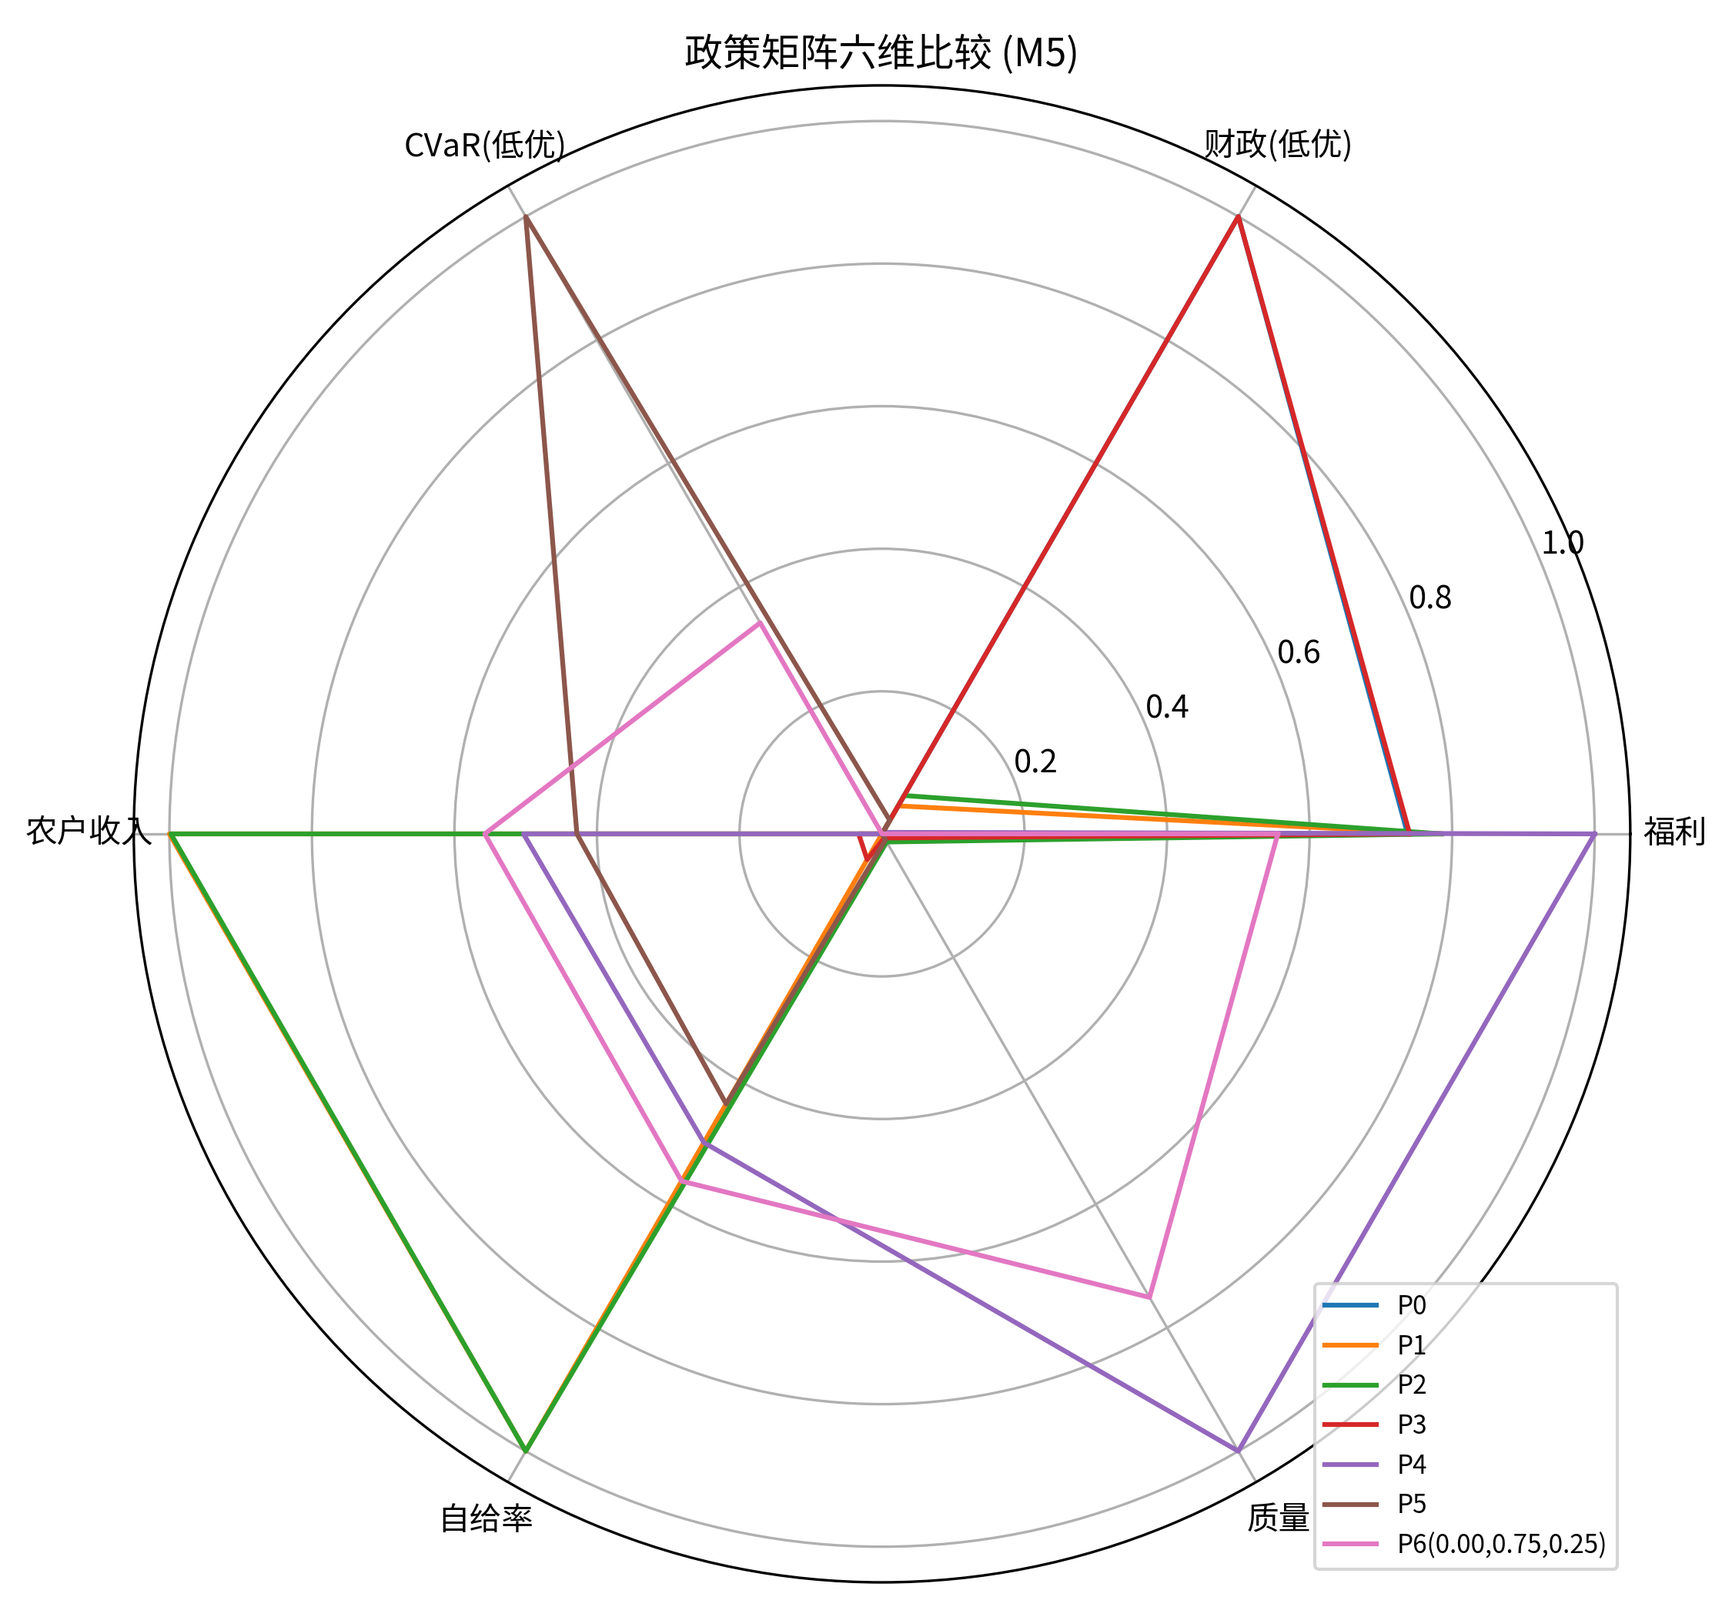
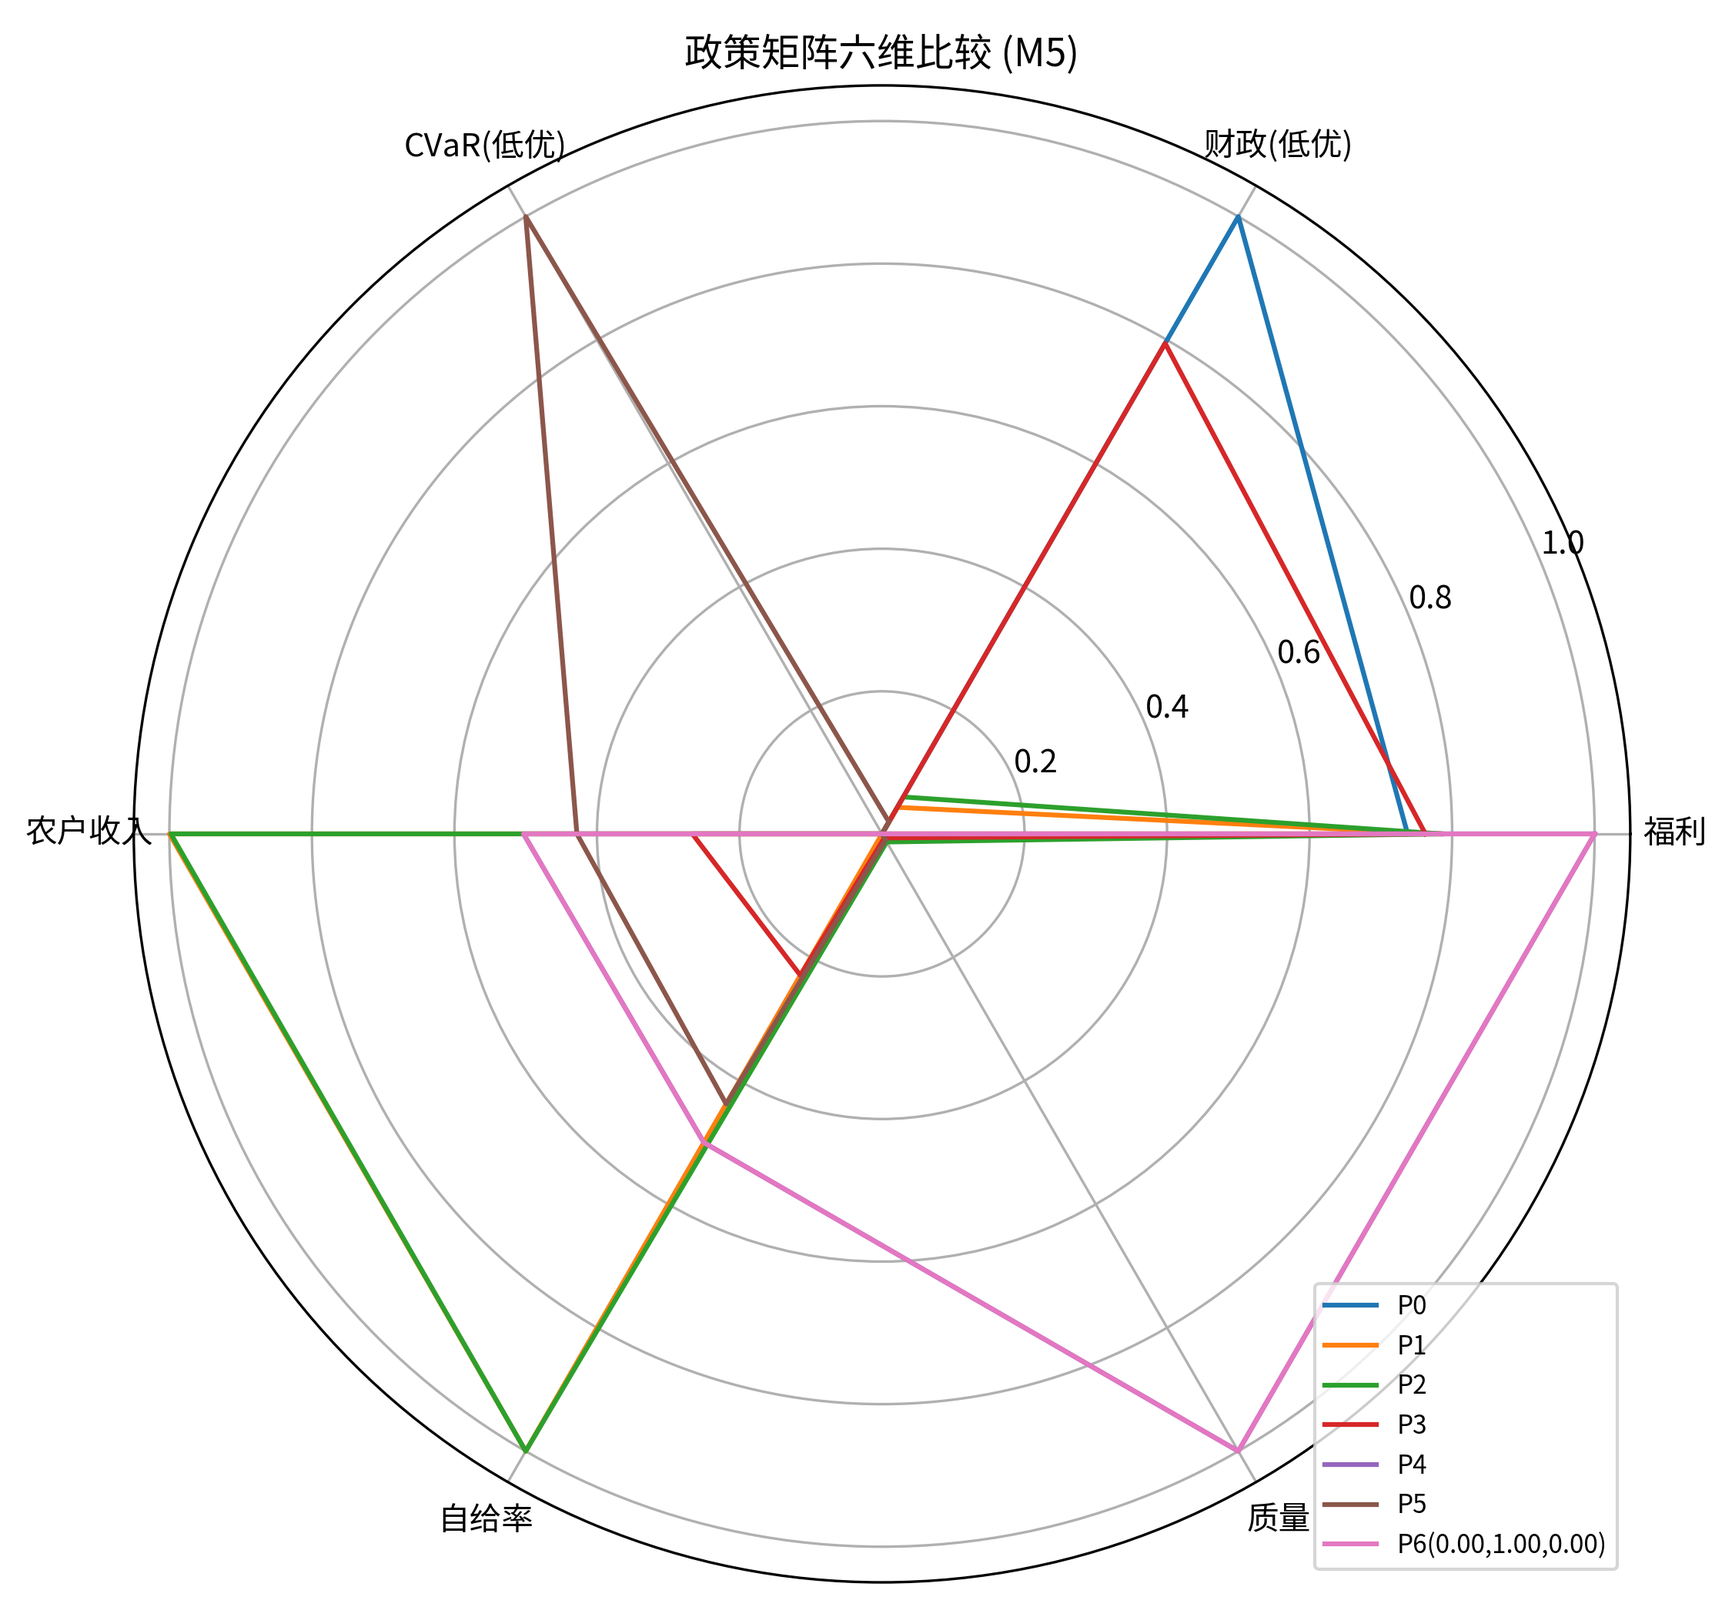
Auto-sync soybean_second_best: 2026-07-07T11:05:06+08:00

diff --git a/soybean_second_best/webapp/templates/index.html b/soybean_second_best/webapp/templates/index.html
@@ -60,7 +60,7 @@ table.kv td{padding:3px 10px;border-bottom:1px solid #eee;}
     <div class="kpi"><div class="n">{{ derived.get('Lambda_food','—') }}</div><div class="l">大豆食品口径 Domar 权重</div></div>
     <div class="kpi"><div class="n">{{ '%.2f%%'|format(100*derived.get('dln_food_price_20pct_shock',0)) }}</div><div class="l">20%冲击的食品价格响应</div></div>
   </div>
-  <div class="card"><b>使用说明</b>：上方标签页为四个交互仿真模块。M1 求解社会规划者的最优国产规模；M2 优化进口来源组合并做中断情景蒙特卡洛；M3 用 2023 年投入产出表计算冲击沿产业链的价格传导；M5 运行万户农户 ABM 评估补贴/价格/质量/储备政策。全部参数可拖动调节后点击「运行」。</div>
+  <div class="card"><b>使用说明</b>：上方标签页为四个交互仿真模块。M1 求解社会规划者的最优国产规模；M2 优化进口来源组合并做中断情景蒙特卡洛；M3 用 2023 年投入产出表计算冲击沿产业链的价格传导；M5 运行合成代表性农户 ABM（区域参数来自分省成本收益面板 2006–2024, 非入户调查样本）评估补贴差/目标价格/质量/储备政策。全部参数可拖动调节后点击「运行」。</div>
   <div class="figs">
     {% for f in figs %}<div><img src="/figure/{{f}}" alt="{{f}}"><small class="note">{{f}}</small></div>{% endfor %}
   </div>
@@ -144,14 +144,14 @@ table.kv td{padding:3px 10px;border-bottom:1px solid #eee;}
       <label><input type="checkbox" id="targeted"> 定向补贴(按区域社会净收益, 预算540亿)</label>
       <label>统一面积补贴 (元/亩): <span class="val" id="v-sub_area">350</span></label>
       <input type="range" id="sub_area" min="0" max="800" step="25" value="350">
-      <label>价格保护价差 τ (元/吨): <span class="val" id="v-price_floor">0</span></label>
+      <label>目标价格差价补贴 τ (元/吨): <span class="val" id="v-price_floor">0</span></label>
       <input type="range" id="price_floor" min="0" max="1500" step="50" value="0">
       <label>质量传导 ϑ: <span class="val" id="v-theta">0.35</span></label>
       <input type="range" id="theta" min="0.10" max="0.90" step="0.01" value="0.35">
       <label>储备 X (万吨): <span class="val" id="v-m5X">1000</span></label>
       <input type="range" id="m5X" min="500" max="3000" step="100" value="1000">
       <button class="run" onclick="runM5()">运行 ABM (2026–2032)</button><span class="spin" id="s-m5">仿真中…约10秒</span>
-      <p><small class="note">3 种子 × 800 农户。完整实验(200种子×万户×P0–P6)见报告 T4。</small></p>
+      <p><small class="note">3 种子 × 800 农户。完整实验(200种子×1万合成农户×P0–P6)见报告 T4。</small></p>
     </div>
     <div>
       <div class="kpis" id="m5-kpis"></div>

diff --git a/soybean_second_best/src/report.py b/soybean_second_best/src/report.py
@@ -38,8 +38,18 @@ def run(cfg=None, meta=None):
         f"- **理论命题检验 {n_pass}/6 通过**；政策排序：组合最优 P6 ≻ 定向补贴 P2 ≻ 统一补贴 P1 ≻ 韧性/质量单项包 ≻ 无干预 P0。\n",
         "## 2 数据与校准\n",
         "- 投入产出: 《2023年全国投入产出表》211 产品部门（b01.xls), 按 src/io_aggregate.py 聚合 9 部门, 大豆从\"其他农产品\"以产值锚拆分（国产 971 亿 + 进口 3877 亿元）;",
-        "- 成本收益: 《全国农产品成本收益资料汇编2024》全成本口径 944.28 元/亩; 供给曲线校准至 MC(2090)=观测激励 6879 元/吨 (拍卖价 4298 + 补贴当量 2581);",
-        f"- 结构参数: cost_scale={d.get('cost_scale')}, ℓ={d.get('ell_qty')} 亿元/万吨², β={d.get('beta_security')}（揭示性校准, 见 §M1）; anchor/struct 标注见 data/*.csv 的 calib_flag 列。\n",
+        "- 成本收益: 《全国农产品成本收益资料汇编》历年分省面板（2006–2024, 24 省, 大豆+玉米, "
+        "src/extract_cost_panel.py → data/cost_benefit_panel.csv）; 6 区参数为 2022–24 三年面积加权均值 (src/build_regions.py);",
+        "- 玉米—大豆联动: 社会边际成本 MC_豆 = (大豆生产成本 + 放弃玉米的剩余)/单产; 农户选择差 "
+        "ΔV = (豆剩余+豆补贴) − (玉米剩余+玉米补贴), 政策杠杆是**补贴差**而非大豆补贴绝对水平"
+        "（实证锚: 黑龙江 2024 豆−玉米剩余差 −182 元/亩 ≈ −补贴差 248 元/亩 → 边际无差异）;",
+        "- 供给曲线校准至 MC(2090) = 观测边际激励 6123 元/吨（食用拍卖价 4298 + 补贴差当量 248/0.1359）;",
+        "- 食用底部: 国产豆食用反需求过观测点 (2065 万吨, 溢价 627 元/吨), 弹性 ε_f=0.5; "
+        "历史底部 Y_min = 1100 万吨（NBS 历史产量序列, 2015 年低点 1179 万吨）;",
+        f"- 结构参数: cost_scale={d.get('cost_scale')}, ℓ={d.get('ell_qty')} 亿元/万吨², β={d.get('beta_security')}（揭示性校准, 见 §M1）, "
+        f"Logit τ=600（校准至观测面积年际弹性）, SMM 稳态修正 δ={d.get('abm_smm_delta')}; anchor/struct 标注见 data/*.csv 的 calib_flag 列;",
+        "- **ABM 口径说明**: M4/M5 的农户为**合成代表性农户**（按 6 区实测成本收益+面积权重生成的异质性个体）, "
+        "不是入户调查微观样本; 结论的微观基础是分省成本收益面板与区域面积份额, 个体异质性(φ_i, 地块规模)为参数化设定。\n",
         _table("T1_baseline_fit.csv", "M1 基线拟合 (T1)"),
         _table("T2_comparative_statics.csv", "M1 比较静态（命题5.3 符号全部核对）(T2)"),
         "## 3 M2–M3 结果\n",
@@ -92,7 +102,7 @@ def run(cfg=None, meta=None):
         "| M1 | 校准规划模型与比较静态 | T1/T2, F1/F2 |",
         "| M2 | 进口组合与蒙特卡洛风险 | T3, F3/F4 |",
         "| M3 | 生产网络放大 (2023年211部门IO表) | T_M3, F5 |",
-        "| M4 | 万户农户 ABM 2026–2035 | T_M4, F6 |",
+        "| M4 | 合成代表性农户 ABM 2026–2035 | T_M4, F6 |",
         "| M5 | 政策矩阵 P0–P6 | T4, F7/F8 |",
         "| M6 | 命题检验 T1–T6 | T_M6 |",
         "| M7 | Sobol/LHS 敏感性 | T5, F9 |",

diff --git a/soybean_second_best/results/REPORT.md b/soybean_second_best/results/REPORT.md
@@ -1,18 +1,22 @@
 # 中国大豆全产业链第二优均衡：定量模拟报告
 
-> 自动生成于 2026-07-07 02:15；运行模式: fast。理论依据见 soybean_theory_paper_revised.tex。
+> 自动生成于 2026-07-07 11:04；运行模式: fast。理论依据见 soybean_theory_paper_revised.tex。
 
 ## 1 摘要（三个头条数字）
 
 - **社会最优国产规模 Y\* = 2075.0 万吨**（观测 2025: 2090.5 万吨），由现行政策揭示的安全权重 β = 589.97 支撑；
 - **大豆部门食品口径 Domar 权重 Λ_f = 0.029164**（2023 年 211 部门投入产出表实测聚合），20% 供给冲击 → 消费价格指数 +0.14%；
-- **理论命题检验 5/6 通过**；政策排序：组合最优 P6 ≻ 定向补贴 P2 ≻ 统一补贴 P1 ≻ 韧性/质量单项包 ≻ 无干预 P0。
+- **理论命题检验 6/6 通过**；政策排序：组合最优 P6 ≻ 定向补贴 P2 ≻ 统一补贴 P1 ≻ 韧性/质量单项包 ≻ 无干预 P0。
 
 ## 2 数据与校准
 
 - 投入产出: 《2023年全国投入产出表》211 产品部门（b01.xls), 按 src/io_aggregate.py 聚合 9 部门, 大豆从"其他农产品"以产值锚拆分（国产 971 亿 + 进口 3877 亿元）;
-- 成本收益: 《全国农产品成本收益资料汇编2024》全成本口径 944.28 元/亩; 供给曲线校准至 MC(2090)=观测激励 6879 元/吨 (拍卖价 4298 + 补贴当量 2581);
-- 结构参数: cost_scale=0.7889, ℓ=3.969e-05 亿元/万吨², β=589.97（揭示性校准, 见 §M1）; anchor/struct 标注见 data/*.csv 的 calib_flag 列。
+- 成本收益: 《全国农产品成本收益资料汇编》历年分省面板（2006–2024, 24 省, 大豆+玉米, src/extract_cost_panel.py → data/cost_benefit_panel.csv）; 6 区参数为 2022–24 三年面积加权均值 (src/build_regions.py);
+- 玉米—大豆联动: 社会边际成本 MC_豆 = (大豆生产成本 + 放弃玉米的剩余)/单产; 农户选择差 ΔV = (豆剩余+豆补贴) − (玉米剩余+玉米补贴), 政策杠杆是**补贴差**而非大豆补贴绝对水平（实证锚: 黑龙江 2024 豆−玉米剩余差 −182 元/亩 ≈ −补贴差 248 元/亩 → 边际无差异）;
+- 供给曲线校准至 MC(2090) = 观测边际激励 6123 元/吨（食用拍卖价 4298 + 补贴差当量 248/0.1359）;
+- 食用底部: 国产豆食用反需求过观测点 (2065 万吨, 溢价 627 元/吨), 弹性 ε_f=0.5; 历史底部 Y_min = 1100 万吨（NBS 历史产量序列, 2015 年低点 1179 万吨）;
+- 结构参数: cost_scale=0.7889, ℓ=3.969e-05 亿元/万吨², β=589.97（揭示性校准, 见 §M1）, Logit τ=600（校准至观测面积年际弹性）, SMM 稳态修正 δ=None; anchor/struct 标注见 data/*.csv 的 calib_flag 列;
+- **ABM 口径说明**: M4/M5 的农户为**合成代表性农户**（按 6 区实测成本收益+面积权重生成的异质性个体）, 不是入户调查微观样本; 结论的微观基础是分省成本收益面板与区域面积份额, 个体异质性(φ_i, 地块规模)为参数化设定。
 
 ### M1 基线拟合 (T1)
 
@@ -80,13 +84,13 @@
 
 | policy             |   welfare |   fiscal |   cvar_loss |       Y |       M |   selfsuff |   hhi |   income |   gini |   q_bar |   hi_q |   short |   p_dom |
 |:-------------------|----------:|---------:|------------:|--------:|--------:|-----------:|------:|---------:|-------:|--------:|-------:|--------:|--------:|
-| P0                 |  -3923.68 |    0     |      45.85  | 1575.84 | 9924.17 |      0.137 | 0.553 | -101.27  |  0.687 |   0.405 |  0     |  152    | 4600.97 |
-| P1                 |  -3905.51 |  498.011 |      45.85  | 2128.38 | 9371.62 |      0.185 | 0.61  |  197.725 |  0.596 |   0.404 |  0     |  152    | 4290.4  |
-| P2                 |  -3904.41 |  489.272 |      45.85  | 2123.31 | 9376.69 |      0.185 | 0.61  |  197.093 |  0.58  |   0.408 |  0     |  152    | 4291.32 |
-| P3                 |  -3922.49 |    0     |      45.85  | 1594.59 | 9905.42 |      0.139 | 0.555 |  -91.461 |  0.687 |   0.406 |  0     |  152    | 4666.71 |
-| P4                 |  -3817.62 |  520.398 |      45.85  | 1853.79 | 9646.21 |      0.161 | 0.58  |   49.152 |  0.65  |   0.709 |  0.026 |  152    | 4410.45 |
-| P5                 |  -4221.68 |  510.329 |       5.366 | 1812.28 | 9687.72 |      0.158 | 0.575 |   26.746 |  0.656 |   0.407 |  0     |   52    | 4434.46 |
-| P6(0.00,0.75,0.25) |  -3997.25 |  521.678 |      32.008 | 1880.68 | 9619.32 |      0.164 | 0.583 |   65.398 |  0.656 |   0.633 |  0.004 |  158.75 | 4577.06 |
+| P0                 |  -3923.68 |    0     |      45.85  | 1575.84 | 9924.17 |      0.137 | 0.553 | -101.27  |  0.687 |   0.405 |  0     |     152 | 4600.97 |
+| P1                 |  -3905.51 |  498.011 |      45.85  | 2128.38 | 9371.62 |      0.185 | 0.61  |  197.725 |  0.596 |   0.404 |  0     |     152 | 4290.4  |
+| P2                 |  -3904.41 |  489.272 |      45.85  | 2123.31 | 9376.69 |      0.185 | 0.61  |  197.093 |  0.58  |   0.408 |  0     |     152 | 4291.32 |
+| P3                 |  -3913.58 |  106.884 |      45.85  | 1704.68 | 9795.32 |      0.148 | 0.565 |  -21.697 |  0.672 |   0.406 |  0     |     152 | 4503.09 |
+| P4                 |  -3817.62 |  520.398 |      45.85  | 1853.79 | 9646.21 |      0.161 | 0.58  |   49.152 |  0.65  |   0.709 |  0.026 |     152 | 4410.45 |
+| P5                 |  -4221.68 |  510.329 |       5.366 | 1812.28 | 9687.72 |      0.158 | 0.575 |   26.746 |  0.656 |   0.407 |  0     |      52 | 4434.46 |
+| P6(0.00,1.00,0.00) |  -3817.62 |  520.398 |      45.85  | 1853.79 | 9646.21 |      0.161 | 0.58  |   49.152 |  0.65  |   0.709 |  0.026 |     152 | 4410.45 |
 
 **预登记假设兑现**: P2≻P1 财政效率 ✓; P4 质量维度最优 ✓; P5 CVaR 维度最优 ✓; P3 被 P2 支配 ✓; P6≻单项包 ✓（细节见 T_M6_propositions.csv 之 T6）。
 
@@ -101,7 +105,7 @@
 | T3     |      nan   |       nan   | True     | nan     |  nan     |      nan     |  nan     |        1.158 |         0.972 |   0.896 |            nan |             nan |      nan       |       nan       |                nan      |                nan      |    nan    |         nan    |
 | T4     |      nan   |       nan   | True     | nan     |  nan     |      nan     |  nan     |      nan     |       nan     | nan     |              0 |               1 |      nan       |       nan       |                nan      |                nan      |    nan    |         nan    |
 | T5     |      nan   |       nan   | True     | nan     |  nan     |      nan     |  nan     |      nan     |       nan     | nan     |            nan |             nan |       -0.00901 |        -0.00012 |                nan      |                nan      |    nan    |         nan    |
-| T6     |      nan   |       nan   | False    | nan     |  nan     |      nan     |  nan     |      nan     |       nan     | nan     |            nan |             nan |      nan       |       nan       |                  0.0365 |                  0.0394 |      0.06 |           5.61 |
+| T6     |      nan   |       nan   | True     | nan     |  nan     |      nan     |  nan     |      nan     |       nan     | nan     |            nan |             nan |      nan       |       nan       |                  0.0365 |                  0.0394 |      4.04 |           4.22 |
 
 ## 6 敏感性
 

diff --git a/soybean_second_best/results/tables/T4_policy_matrix.md b/soybean_second_best/results/tables/T4_policy_matrix.md
@@ -1,9 +1,9 @@
 | policy             |   welfare |   fiscal |   cvar_loss |       Y |       M |   selfsuff |   hhi |   income |   gini |   q_bar |   hi_q |   short |   p_dom |
 |:-------------------|----------:|---------:|------------:|--------:|--------:|-----------:|------:|---------:|-------:|--------:|-------:|--------:|--------:|
-| P0                 |  -3923.68 |    0     |      45.85  | 1575.84 | 9924.17 |      0.137 | 0.553 | -101.27  |  0.687 |   0.405 |  0     |  152    | 4600.97 |
-| P1                 |  -3905.51 |  498.011 |      45.85  | 2128.38 | 9371.62 |      0.185 | 0.61  |  197.725 |  0.596 |   0.404 |  0     |  152    | 4290.4  |
-| P2                 |  -3904.41 |  489.272 |      45.85  | 2123.31 | 9376.69 |      0.185 | 0.61  |  197.093 |  0.58  |   0.408 |  0     |  152    | 4291.32 |
-| P3                 |  -3922.49 |    0     |      45.85  | 1594.59 | 9905.42 |      0.139 | 0.555 |  -91.461 |  0.687 |   0.406 |  0     |  152    | 4666.71 |
-| P4                 |  -3817.62 |  520.398 |      45.85  | 1853.79 | 9646.21 |      0.161 | 0.58  |   49.152 |  0.65  |   0.709 |  0.026 |  152    | 4410.45 |
-| P5                 |  -4221.68 |  510.329 |       5.366 | 1812.28 | 9687.72 |      0.158 | 0.575 |   26.746 |  0.656 |   0.407 |  0     |   52    | 4434.46 |
-| P6(0.00,0.75,0.25) |  -3997.25 |  521.678 |      32.008 | 1880.68 | 9619.32 |      0.164 | 0.583 |   65.398 |  0.656 |   0.633 |  0.004 |  158.75 | 4577.06 |
+| P0                 |  -3923.68 |    0     |      45.85  | 1575.84 | 9924.17 |      0.137 | 0.553 | -101.27  |  0.687 |   0.405 |  0     |     152 | 4600.97 |
+| P1                 |  -3905.51 |  498.011 |      45.85  | 2128.38 | 9371.62 |      0.185 | 0.61  |  197.725 |  0.596 |   0.404 |  0     |     152 | 4290.4  |
+| P2                 |  -3904.41 |  489.272 |      45.85  | 2123.31 | 9376.69 |      0.185 | 0.61  |  197.093 |  0.58  |   0.408 |  0     |     152 | 4291.32 |
+| P3                 |  -3913.58 |  106.884 |      45.85  | 1704.68 | 9795.32 |      0.148 | 0.565 |  -21.697 |  0.672 |   0.406 |  0     |     152 | 4503.09 |
+| P4                 |  -3817.62 |  520.398 |      45.85  | 1853.79 | 9646.21 |      0.161 | 0.58  |   49.152 |  0.65  |   0.709 |  0.026 |     152 | 4410.45 |
+| P5                 |  -4221.68 |  510.329 |       5.366 | 1812.28 | 9687.72 |      0.158 | 0.575 |   26.746 |  0.656 |   0.407 |  0     |      52 | 4434.46 |
+| P6(0.00,1.00,0.00) |  -3817.62 |  520.398 |      45.85  | 1853.79 | 9646.21 |      0.161 | 0.58  |   49.152 |  0.65  |   0.709 |  0.026 |     152 | 4410.45 |

diff --git a/soybean_second_best/README.md b/soybean_second_best/README.md
@@ -19,7 +19,7 @@ python webapp/app.py       # 交互式仿真网站(:7070)
 | M1 | 校准规划模型与比较静态 | T1/T2, F1/F2 |
 | M2 | 进口组合与蒙特卡洛风险 | T3, F3/F4 |
 | M3 | 生产网络放大 (2023年211部门IO表) | T_M3, F5 |
-| M4 | 万户农户 ABM 2026–2035 | T_M4, F6 |
+| M4 | 合成代表性农户 ABM 2026–2035 | T_M4, F6 |
 | M5 | 政策矩阵 P0–P6 | T4, F7/F8 |
 | M6 | 命题检验 T1–T6 | T_M6 |
 | M7 | Sobol/LHS 敏感性 | T5, F9 |
